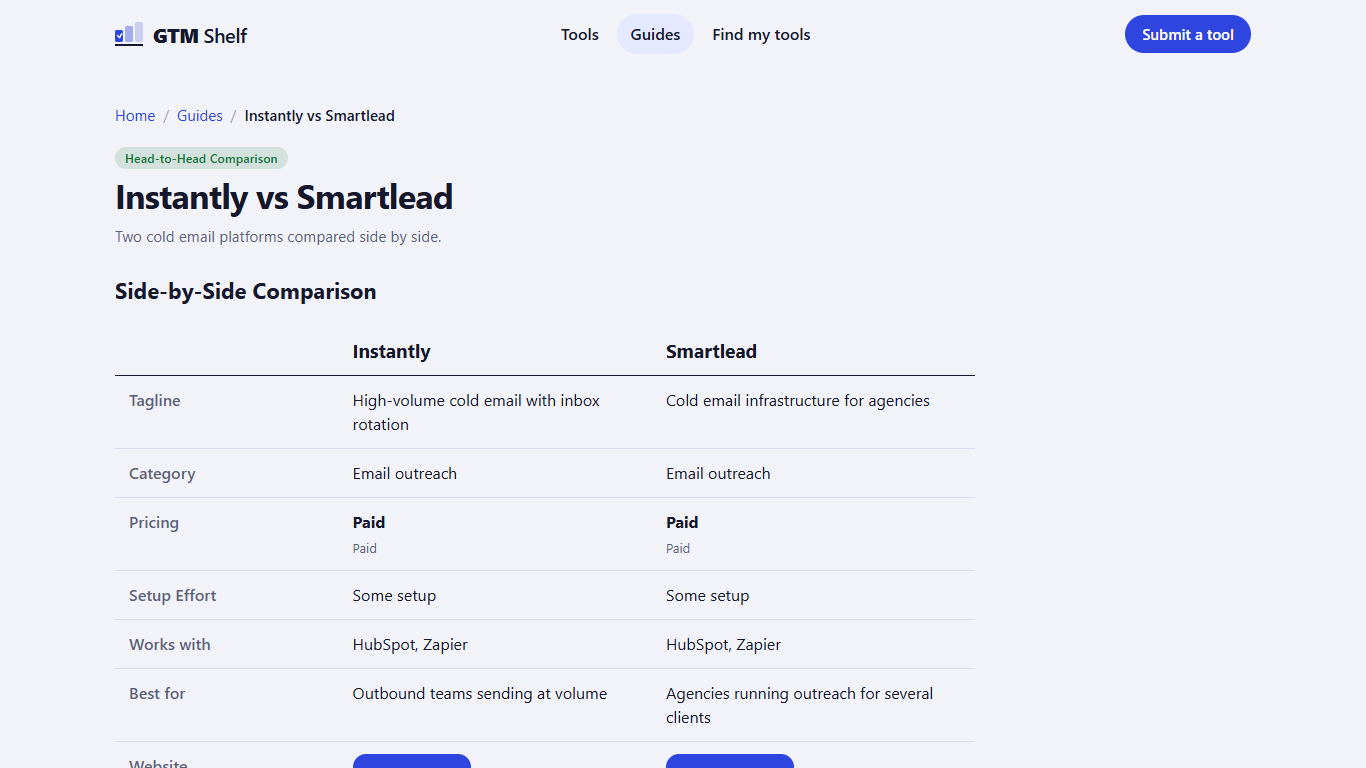
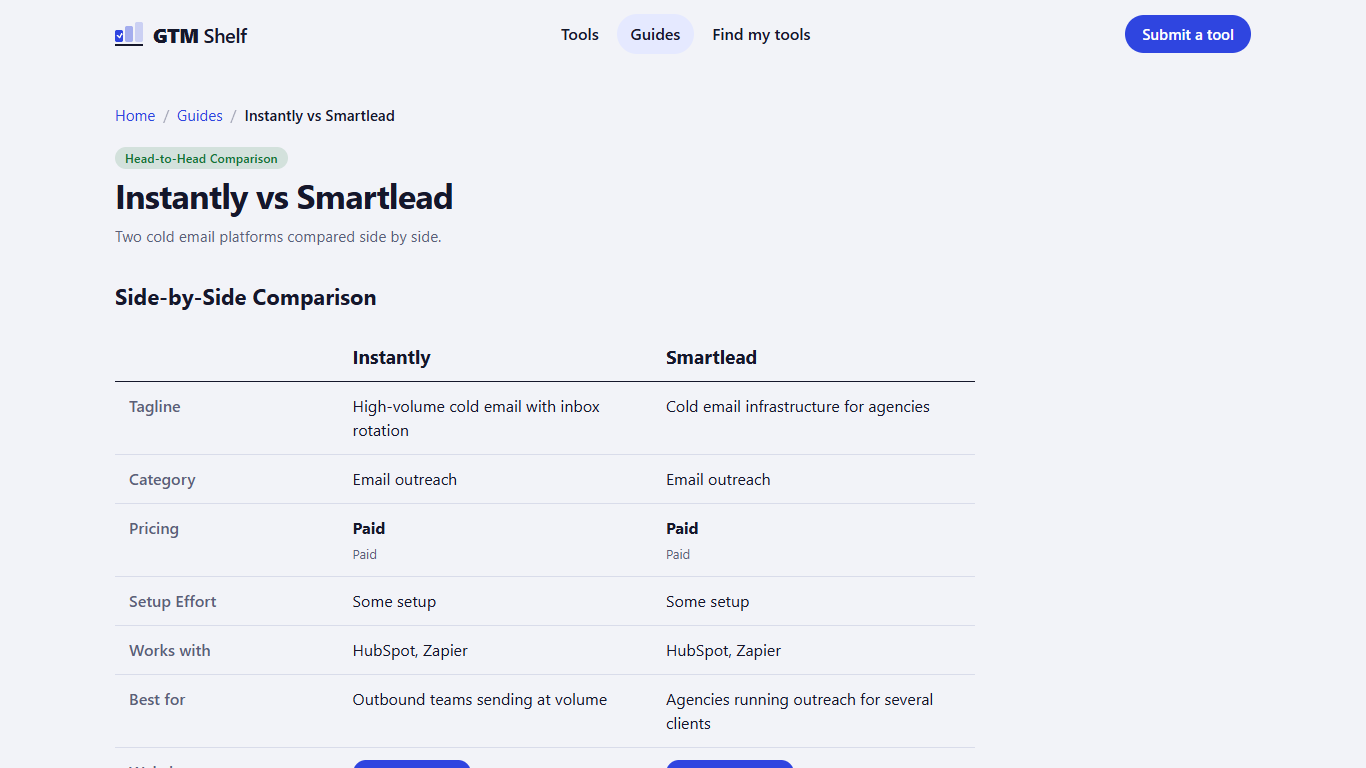
style(ui): separate search bar further down and enhance visual hierarchy

diff --git a/app/globals.css b/app/globals.css
@@ -65,14 +65,15 @@ button{font:inherit;color:inherit;cursor:pointer}
 .hero{display:grid;grid-template-columns:minmax(0,1.15fr) minmax(0,1fr);gap:clamp(28px,4.5vw,60px);align-items:start;padding-top:clamp(32px,4vw,52px);padding-bottom:clamp(38px,4.5vw,56px)}
 .hero-text{padding-top:clamp(14px,2vw,24px)}
 h1{font:700 clamp(1.85rem,3.4vw,2.75rem)/1.08 var(--display);letter-spacing:-.025em;margin:0 0 14px;text-wrap:balance}
-.lede{color:var(--muted);font-size:1.05rem;max-width:34em;margin:0 0 clamp(24px,3vw,32px);line-height:1.45}
+.lede{color:var(--muted);font-size:1.05rem;max-width:34em;margin:0 0 clamp(36px,4.5vw,48px);line-height:1.5}
 .search{position:relative}
-.search input{width:100%;padding:13px 18px 13px 48px;border-radius:10px;border:1.5px solid var(--line);background:var(--surface);color:var(--ink);font:500 1rem var(--body)}
+.search input{width:100%;padding:13px 18px 13px 48px;border-radius:10px;border:1.5px solid var(--line);background:var(--surface);color:var(--ink);font:500 1rem var(--body);box-shadow:0 2px 6px rgba(10,12,30,.03);transition:border-color .15s,box-shadow .15s}
+.search input:focus{border-color:var(--brand);box-shadow:0 0 0 3px color-mix(in srgb,var(--brand) 20%,transparent)}
 .search input::placeholder{color:var(--muted)}
 .search svg{position:absolute;left:16px;top:50%;translate:0 -50%;color:var(--muted);pointer-events:none}
 .try{margin:14px 0 0;color:var(--muted);font-size:.875rem;display:flex;flex-wrap:wrap;gap:6px 8px;align-items:center}
-.try button{border:1px solid var(--line);background:transparent;border-radius:999px;padding:3px 12px;font-size:.8125rem}
-.try button:hover{border-color:var(--brand)}
+.try button{border:1px solid var(--line);background:transparent;border-radius:999px;padding:3px 12px;font-size:.8125rem;transition:border-color .15s,background .15s}
+.try button:hover{border-color:var(--brand);background:var(--brand-soft)}
 
 /* funnel */
 .fq{margin:0 0 4px;font:600 .9375rem var(--body)}
@@ -106,7 +107,7 @@ h1{font:700 clamp(1.85rem,3.4vw,2.75rem)/1.08 var(--display);letter-spacing:-.02
   .hero{padding-top:28px;padding-bottom:34px;gap:36px;align-items:start}
   .hero-text{padding-top:14px}
   h1{font-size:clamp(1.6rem,2.5vw,2.25rem);margin-bottom:12px}
-  .lede{font-size:.95rem;margin-bottom:24px;line-height:1.45}
+  .lede{font-size:.95rem;margin-bottom:34px;line-height:1.45}
   .search input{padding:12px 16px 12px 46px;font-size:.95rem}
   .try{margin-top:12px;font-size:.8125rem}
   .ctaline{margin-top:20px}
